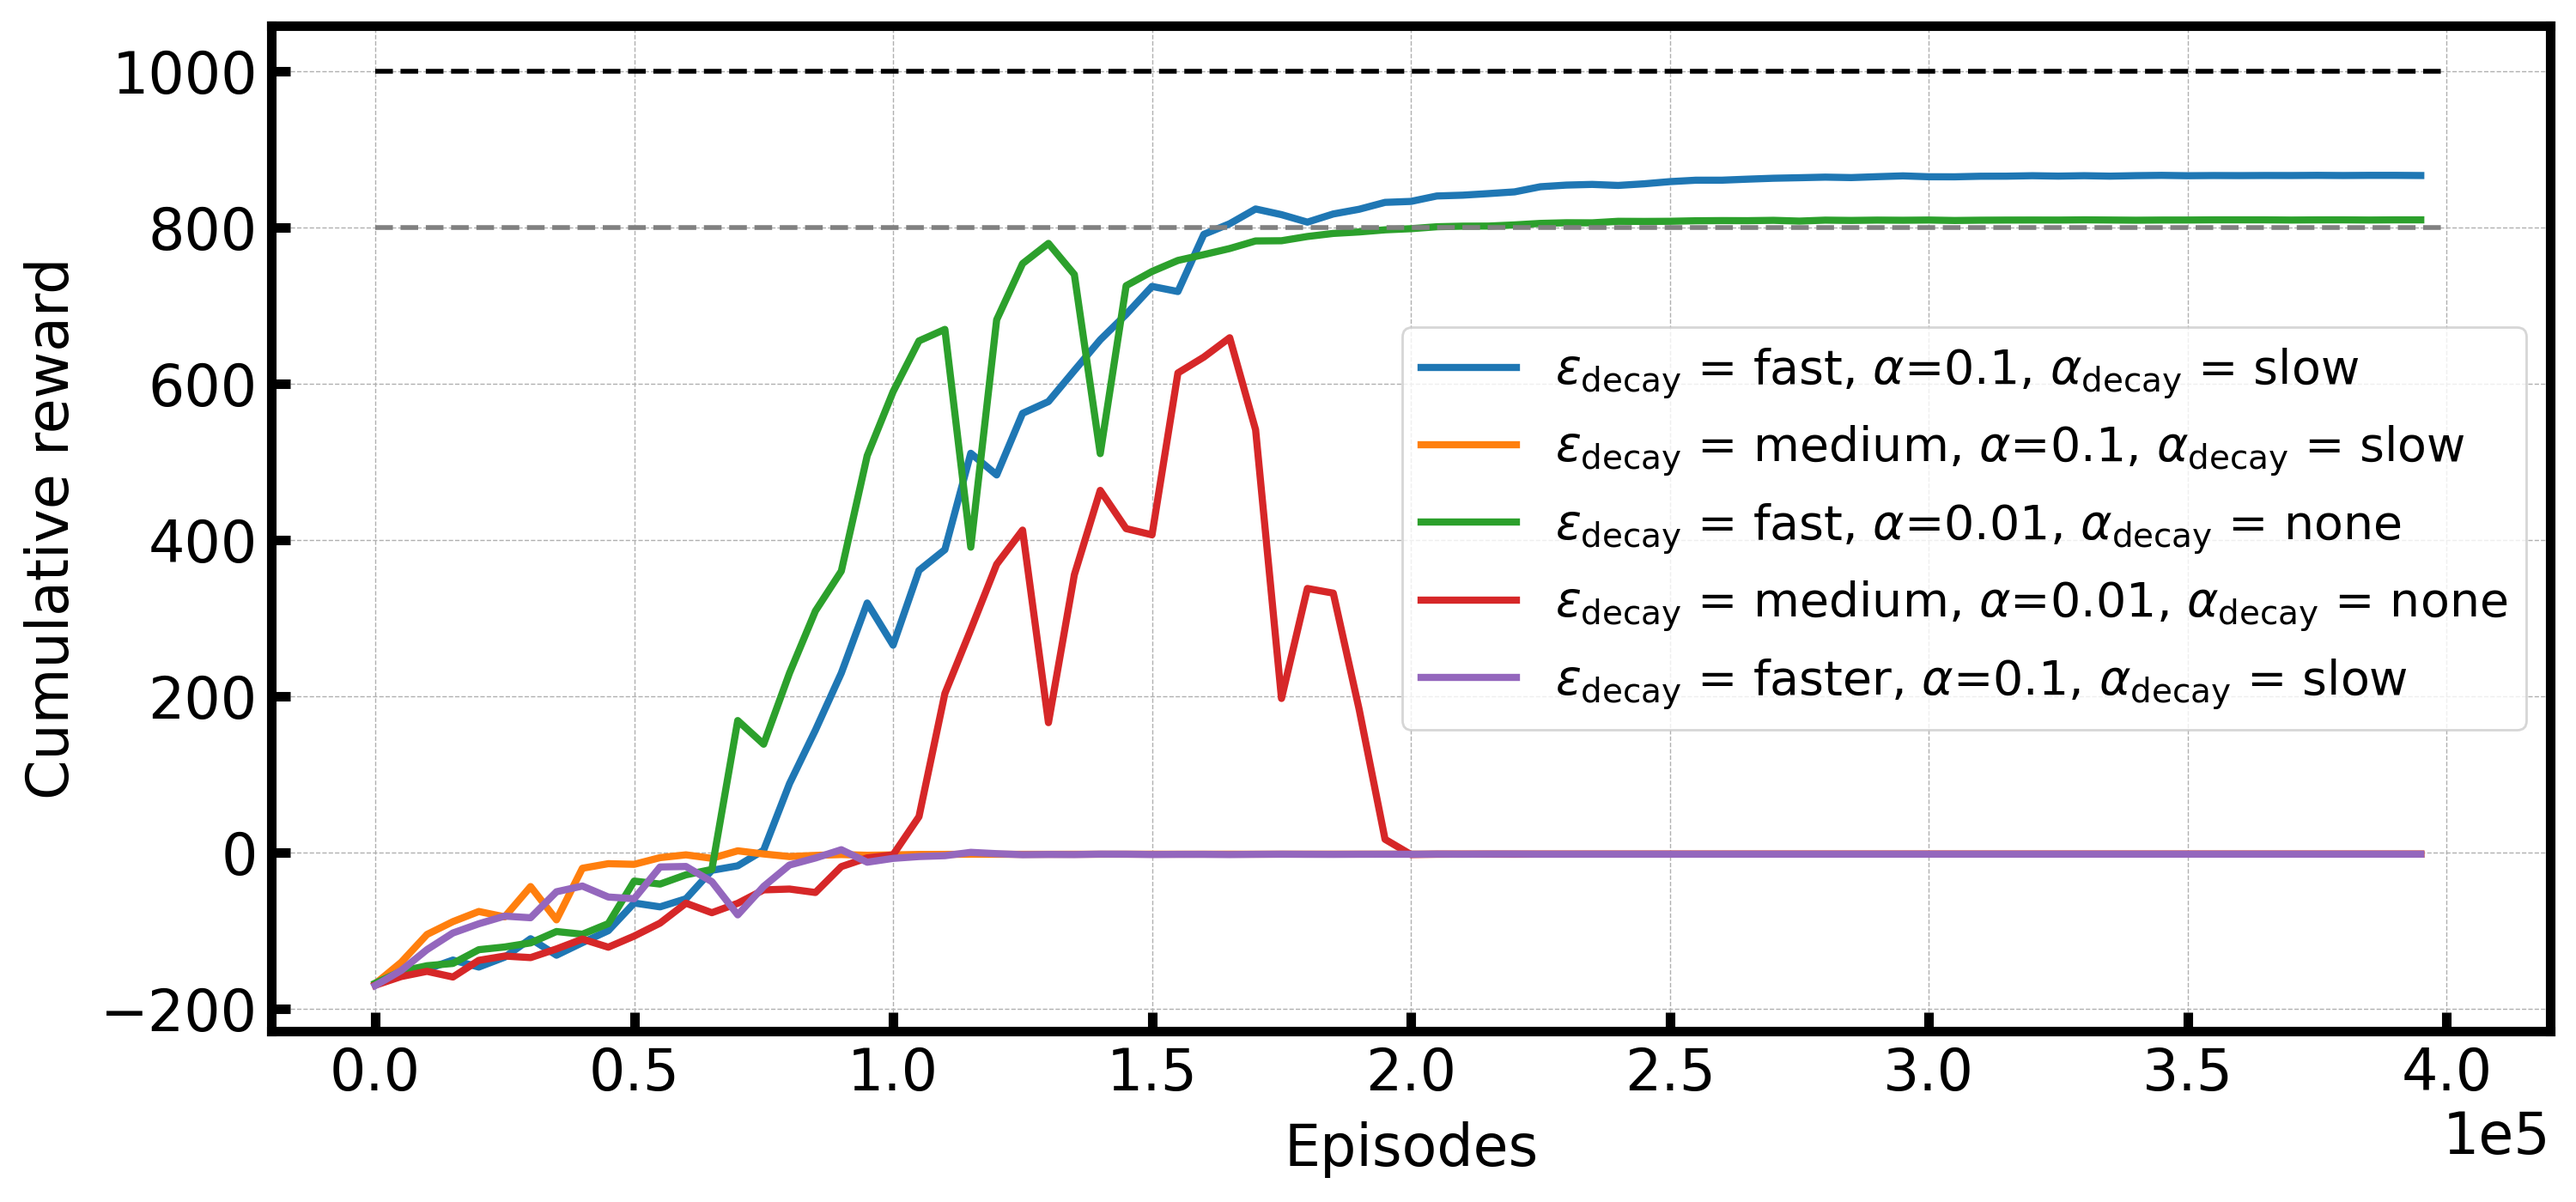
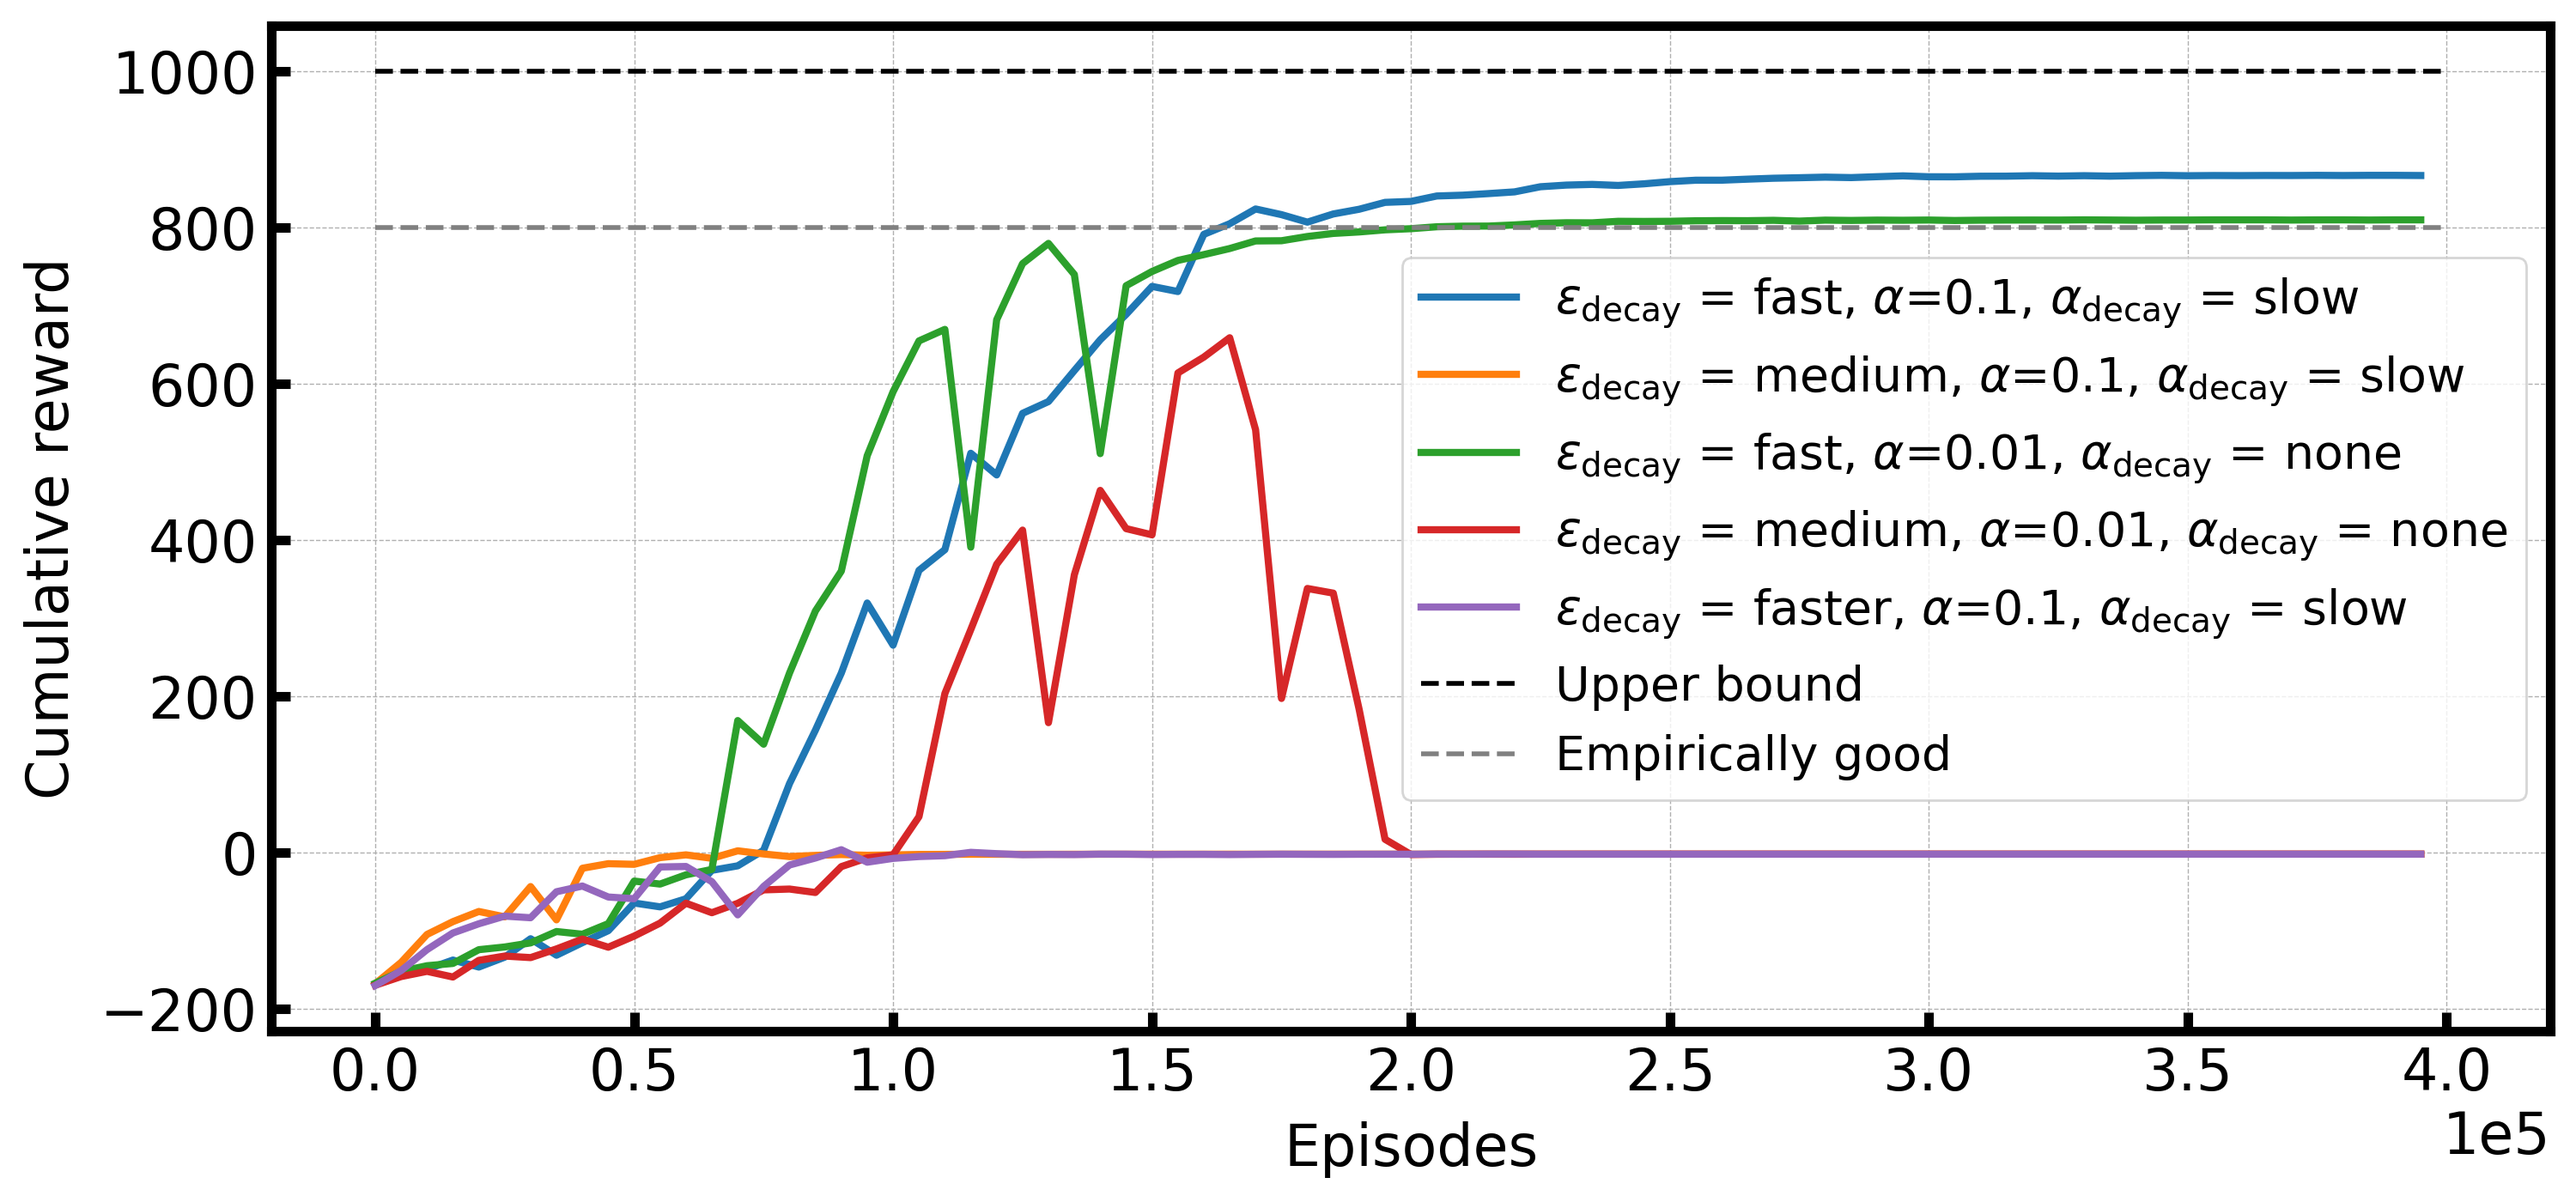
up

Changed region(s): [[0.527, 0.215, 0.992, 0.4607], [0.558, 0.5529, 0.93, 0.645], [0.527, 0.4914, 0.992, 0.5221]]

diff --git a/distributed_q_learning/plot/plot.py b/distributed_q_learning/plot/plot.py
@@ -60,8 +60,8 @@ if __name__=='__main__':
         plt.plot(x_axis, mv_avg_rewards, label=label)
 
 
-    plt.hlines(1000, xmin=0, xmax=4e5, colors='black', ls='--', lw=2)
-    plt.hlines(800, xmin=0, xmax=4e5, colors='grey', ls='--', lw=2)
+    plt.hlines(1000, xmin=0, xmax=4e5, colors='black', ls='--', lw=2, label='Upper bound')
+    plt.hlines(800, xmin=0, xmax=4e5, colors='grey', ls='--', lw=2, label='Empirically good')
     plt.grid(True, which="both", lw=0.5, ls='--')
     plt.ticklabel_format(style='sci', axis='x', scilimits=(0,0))
     plt.legend()

diff --git a/distributed_q_learning/README.md b/distributed_q_learning/README.md
@@ -56,7 +56,7 @@ The main dependencies are `flatland-rl`, `numpy`, `scikit-learn`, `scipy` (with 
 
 
 #### Input
-In the file *train.py* edit the following two parts.
+Inside the file *train.py* edit the following two parts.
 
 1) Inside the function *generate_env* set the following return options
     - `env_width`: the width of the flatland grid
@@ -75,6 +75,9 @@ In the file *train.py* edit the following two parts.
     - `save_every`: frequency of DQL model savings
     - `n_evals_calc`: number of evaluations
     - `eval_batch_size`: batch size used to compute evaluations
+
+
+Inside the file *eval.py* edit ...
 
 
 #### Output
